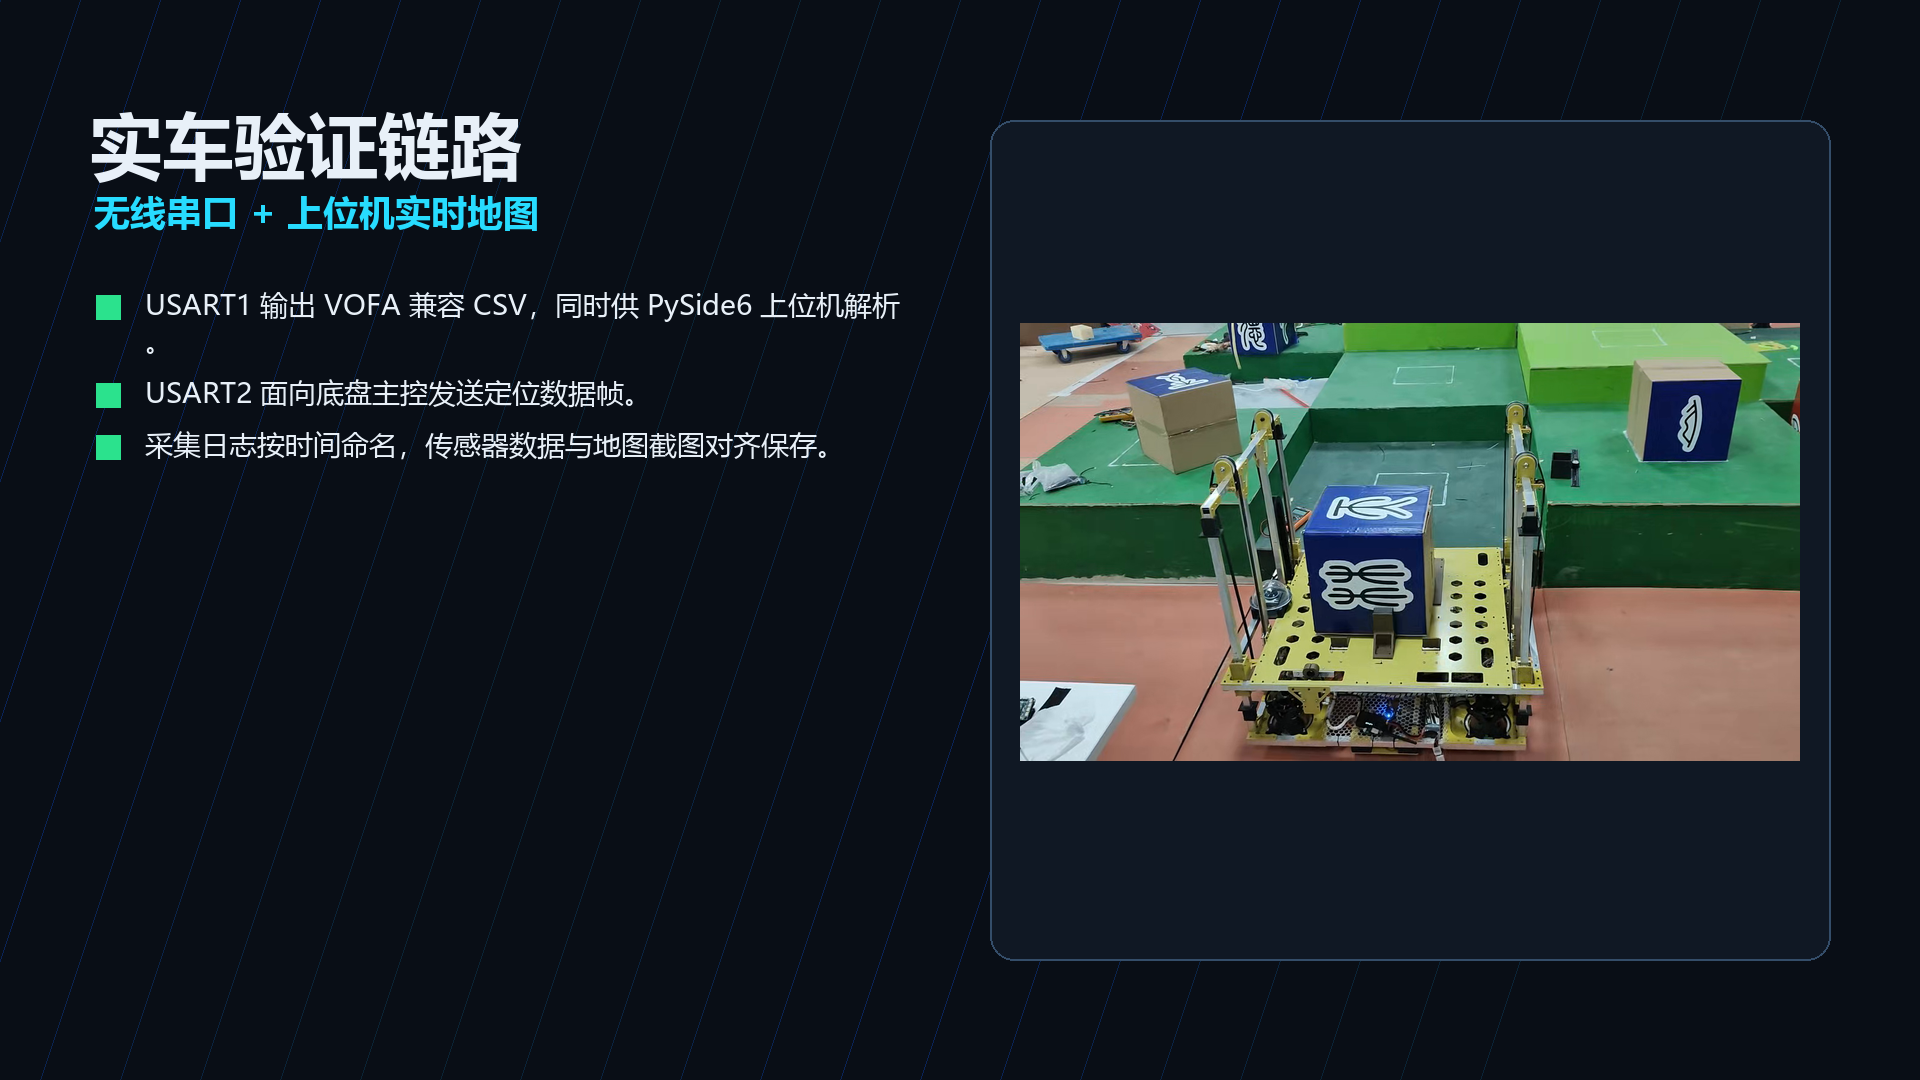
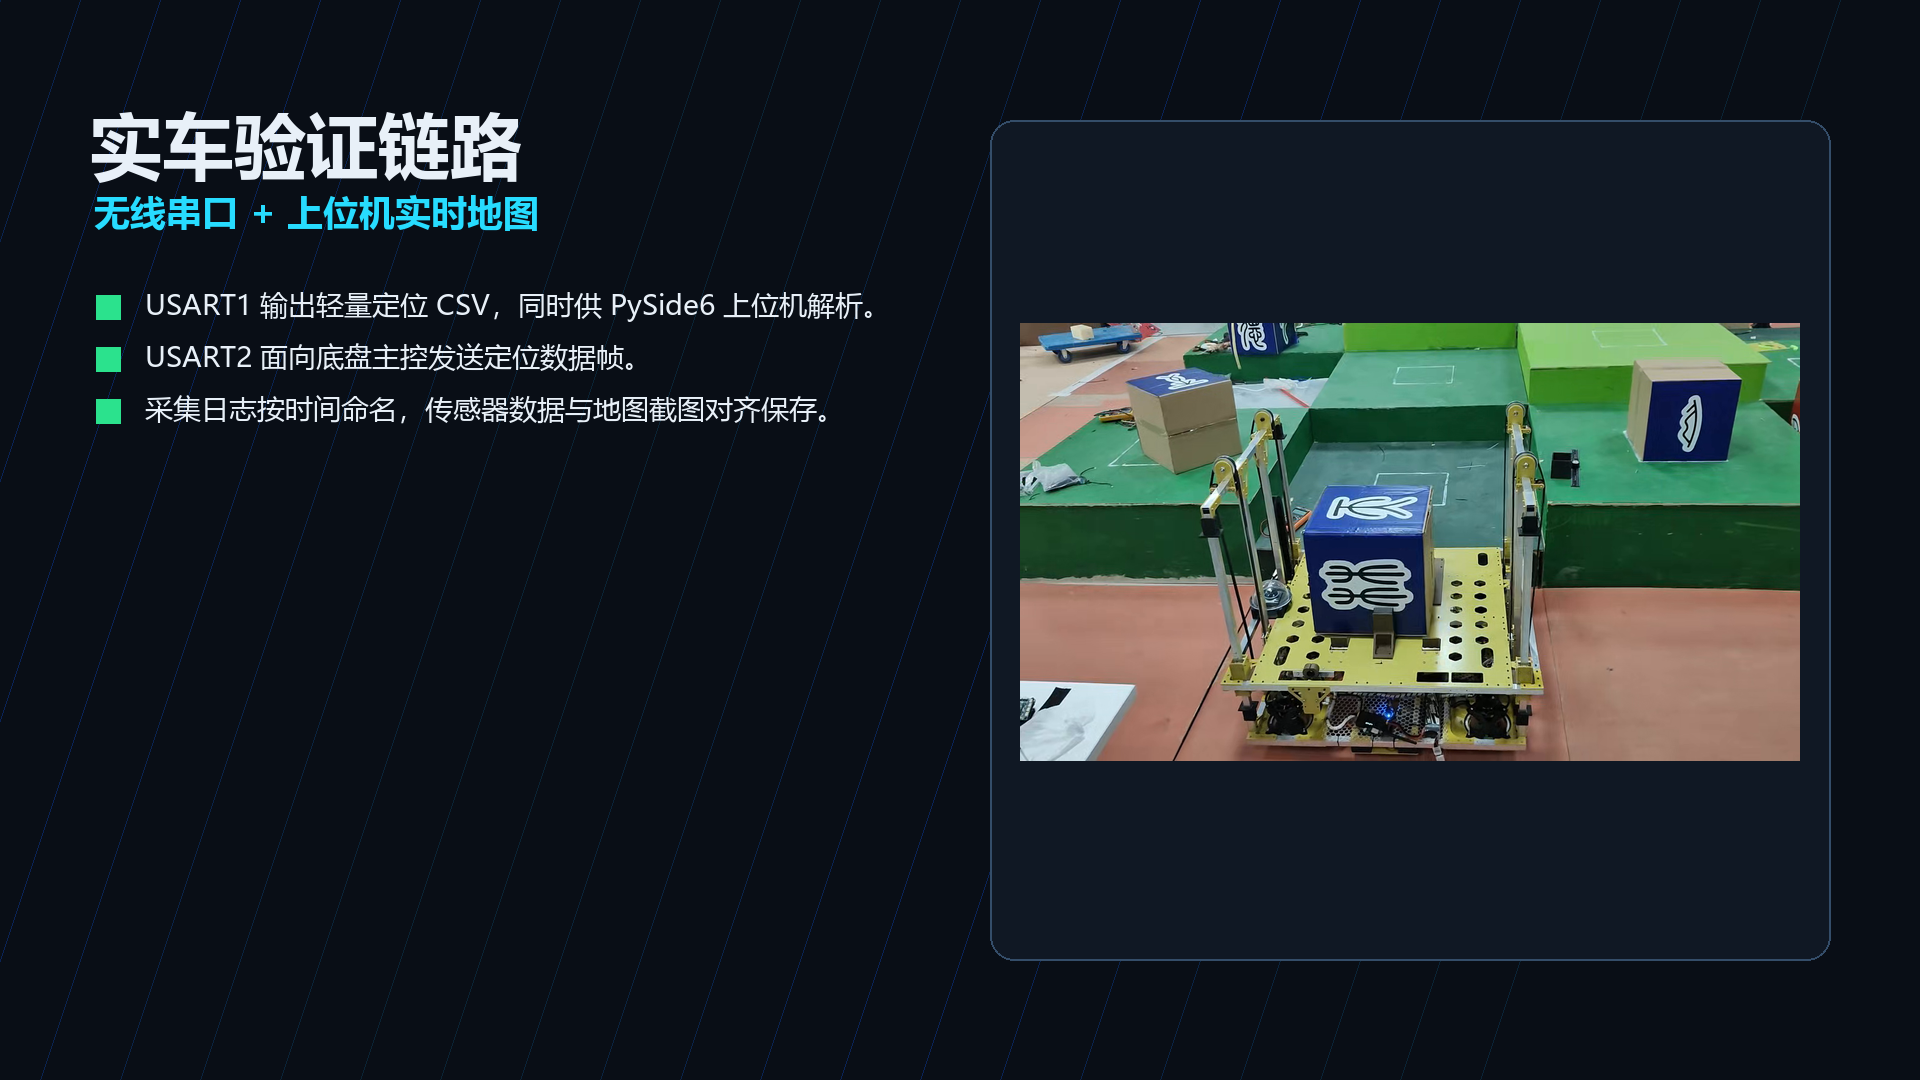
Polish promotion poster and media

Changed region(s): [[0.0312, 0.275, 0.4688, 0.4278]]

diff --git a/docs/promotion/index.html b/docs/promotion/index.html
@@ -63,10 +63,23 @@
       padding: 16px;
       box-shadow: 0 18px 60px rgba(0, 0, 0, 0.32);
     }
-    .video-card h2 {
+    .video-title {
+      display: flex;
+      align-items: baseline;
+      gap: 10px;
       margin: 0 0 10px;
-      font-size: 24px;
+    }
+    .video-title .zh {
+      font-size: 28px;
+      font-weight: 800;
       letter-spacing: 0;
+    }
+    .video-title .en {
+      color: var(--muted);
+      font-size: 15px;
+      font-weight: 700;
+      letter-spacing: 0;
+      text-transform: uppercase;
     }
     .video-card p {
       margin: 0 0 14px;
@@ -79,41 +92,6 @@
       border-radius: 12px;
       border: 1px solid rgba(149, 167, 187, 0.25);
       background: #050b12;
-    }
-    .links {
-      display: flex;
-      flex-wrap: wrap;
-      gap: 12px;
-      margin-top: 22px;
-      justify-content: center;
-    }
-    .button {
-      display: inline-flex;
-      align-items: center;
-      justify-content: center;
-      min-height: 40px;
-      border-radius: 10px;
-      padding: 0 15px;
-      text-decoration: none;
-      color: #06101a;
-      background: var(--cyan);
-      font-weight: 700;
-    }
-    .button.secondary {
-      color: var(--text);
-      background: transparent;
-      border: 1px solid var(--line);
-    }
-    .note {
-      margin: 18px auto 0;
-      max-width: 820px;
-      text-align: center;
-      color: var(--muted);
-    }
-    .footer {
-      margin-top: 32px;
-      color: var(--muted);
-      text-align: center;
     }
     @media (max-width: 820px) {
       .videos {
@@ -130,30 +108,26 @@
 
     <section class="videos" aria-label="演示视频">
       <article class="video-card">
-        <h2>仿真视频</h2>
-        <p>上位机地图回放、DT35 raycast、轨迹和传感器状态演示。</p>
-        <video controls muted playsinline poster="r1-locaterv2-field-model-overview.png">
-          <source src="r1-locaterv2-sim-preview.mp4" type="video/mp4">
-        </video>
-      </article>
-      <article class="video-card">
-        <h2>实车视频</h2>
+        <h2 class="video-title">
+          <span class="zh">A. 实车视频</span>
+          <span class="en">Real Car Video</span>
+        </h2>
         <p>R1 实车链路、定位板、场地结构和传感器联调现场。</p>
         <video controls muted playsinline poster="r1-locaterv2-real-car-frame.png">
           <source src="r1-locaterv2-real-car-h264.mp4" type="video/mp4">
         </video>
       </article>
+      <article class="video-card">
+        <h2 class="video-title">
+          <span class="zh">B. 仿真训练视频</span>
+          <span class="en">Simulation Training Video</span>
+        </h2>
+        <p>上位机地图回放、DT35 raycast、轨迹和传感器状态演示。</p>
+        <video controls muted playsinline poster="r1-locaterv2-field-model-overview.png">
+          <source src="r1-locaterv2-sim-preview.mp4" type="video/mp4">
+        </video>
+      </article>
     </section>
-
-    <p class="note">完整 1 分钟串联演示可播放 <a href="r1-locaterv2-demo.mp4">r1-locaterv2-demo.mp4</a>；README 中同时提供 GIF 预览，避免部分平台屏蔽 video 标签。</p>
-
-    <nav class="links" aria-label="相关链接">
-      <a class="button" href="r1-locaterv2-demo.mp4">完整演示视频</a>
-      <a class="button secondary" href="r1-locaterv2-demo-teaser.gif">GIF 预览</a>
-      <a class="button secondary" href="../../README.md">返回 README</a>
-    </nav>
-
-    <p class="footer">R1_LocaterV2 · STM32G4 多传感器定位调试闭环</p>
   </main>
 </body>
 </html>

diff --git a/docs/promotion/build_promo_assets.py b/docs/promotion/build_promo_assets.py
@@ -16,6 +16,7 @@ ASSETS_DIR = ROOT / "locater_map" / "assets"
 SIM_LOG_DIR = ROOT / "locater_map" / "logs" / "RL_data" / "20260623_coord_fixed_four_stages" / "ideal_log" / "png"
 
 W, H = 1920, 1080
+POSTER_W, POSTER_H = 1920, 1440
 BG = (9, 14, 22)
 PANEL = (16, 24, 36)
 PANEL_2 = (22, 35, 51)
@@ -134,12 +135,12 @@ def draw_badge(draw: ImageDraw.ImageDraw, xy: tuple[int, int], text: str, color)
     draw.text((x + pad_x, y + pad_y - 2), text, font=F_SMALL, fill=(5, 9, 15))
 
 
-def base_canvas() -> tuple[Image.Image, ImageDraw.ImageDraw]:
-    canvas = Image.new("RGB", (W, H), BG)
+def base_canvas(width: int = W, height: int = H) -> tuple[Image.Image, ImageDraw.ImageDraw]:
+    canvas = Image.new("RGB", (width, height), BG)
     draw = ImageDraw.Draw(canvas)
-    for i in range(0, W, 80):
+    for i in range(0, width, 80):
         alpha = int(14 + 18 * math.sin(i / 160))
-        draw.line((i, 0, i - 360, H), fill=(10, 35, 55 + alpha), width=1)
+        draw.line((i, 0, i - 360, height), fill=(10, 35, 55 + alpha), width=1)
     return canvas, draw
 
 
@@ -147,10 +148,6 @@ def make_poster() -> Path:
     out = PROMO_DIR / "r1-locaterv2-poster.png"
     field = ASSETS_DIR / "field_prior_map_clean_labeled_1215x1210cm.png"
     start_map = make_start_map_composite() if field.exists() else None
-    real_frame = PROMO_DIR / "r1-locaterv2-real-car-frame.png"
-    ui = PROMO_DIR / "r1-locaterv2-ui-demo.png"
-    overlay = ROOT / "locater_map" / "logs" / "RL_data" / "20260623_coord_fixed_four_stages" / "ideal_log" / "png" / "overview.png"
-
     def paste_media(img_path: Path, box: tuple[int, int, int, int], cover: bool = True, crop: tuple[int, int, int, int] | None = None) -> None:
         if not img_path.exists():
             return
@@ -163,59 +160,38 @@ def make_poster() -> Path:
         py = y1 + (y2 - y1 - fitted.height) // 2
         canvas.paste(fitted, (px, py))
 
-    def draw_panel(box: tuple[int, int, int, int], title: str, accent=CYAN) -> tuple[int, int, int, int]:
-        x1, y1, x2, y2 = box
-        round_rect(draw, box, 22, PANEL, outline=(45, 66, 91), width=2)
-        draw.rectangle((x1 + 18, y1 + 18, x1 + 88, y1 + 24), fill=accent)
-        draw.text((x1 + 18, y2 - 46), title, font=F_SMALL, fill=TEXT)
-        return (x1 + 18, y1 + 34, x2 - 18, y2 - 62)
-
-    canvas, draw = base_canvas()
-    top_cards = [(75, 55, 575, 330), (710, 55, 1210, 330), (1345, 55, 1845, 330)]
-    start_box = draw_panel(top_cards[0], "红方启动区局部零点", GREEN)
-    real_box = draw_panel(top_cards[1], "实车链路", YELLOW)
-    model_box = draw_panel(top_cards[2], "DT35 墙体模型", CYAN)
-    if start_map and start_map.exists():
-        paste_media(start_map, start_box, cover=True, crop=(0, 0, 520, 370))
-    elif field.exists():
-        paste_media(field, start_box, cover=True, crop=(0, 0, 520, 370))
-    paste_media(real_frame, real_box, cover=True)
-    if overlay.exists():
-        paste_media(overlay, model_box, cover=True, crop=(0, 120, 2500, 1060))
-    elif ui.exists():
-        paste_media(ui, model_box, cover=True)
-
-    round_rect(draw, (75, 380, 1845, 1010), 28, PANEL_2, outline=(45, 66, 91), width=2)
-    draw.text((130, 445), "R1_LocaterV2", font=F_TITLE, fill=TEXT)
-    draw.text((134, 532), "STM32G4 多传感器定位板", font=F_SUBTITLE, fill=CYAN)
+    canvas, draw = base_canvas(POSTER_W, POSTER_H)
+    round_rect(draw, (70, 70, 1850, 1370), 32, PANEL_2, outline=(45, 66, 91), width=2)
+    draw.text((130, 135), "R1_LocaterV2", font=F_TITLE, fill=TEXT)
+    draw.text((135, 220), "STM32G4 多传感器定位板", font=F_SUBTITLE, fill=CYAN)
     draw_wrapped(
         draw,
         "H30 yaw、双正交编码轮、Lidar 启动局部位姿、双 DT35 测距与 PySide6 实时地图上位机对齐到同一套定位调试闭环。",
-        (134, 598),
+        (135, 300),
         650,
         fnt=F_BODY,
         fill=TEXT,
     )
-    draw_badge(draw, (134, 720), "real2sim", GREEN)
-    draw_badge(draw, (274, 720), "UART/VOFA", CYAN)
-    draw_badge(draw, (438, 720), "DT35 raycast", YELLOW)
-    y = 800
+    draw_badge(draw, (135, 435), "里程计", GREEN)
+    draw_badge(draw, (270, 435), "多传感器融合", CYAN)
+    draw_badge(draw, (520, 435), "RLHF 数据闭环", YELLOW)
+    y = 540
     bullets = [
-        "CSV/二进制协议同时服务上位机与底盘主控",
-        "地图坐标、底盘贴图、DT35 墙体模型按 cm 精确建模",
-        "支持日志采集、回放、截图序列和离线融合评估",
+        "双正交编码轮里程计与 H30 yaw 提供高频局部位姿约束",
+        "Lidar、DT35、里程计多源观测在同一地图坐标系下融合校验",
+        "采集、回放、仿真和人工反馈形成 real2sim / RLHF 迭代闭环",
     ]
     for item in bullets:
-        draw.ellipse((142, y + 8, 154, y + 20), fill=GREEN)
-        y = draw_wrapped(draw, item, (174, y), 660, fnt=F_BODY, fill=TEXT) + 6
+        draw.ellipse((145, y + 8, 157, y + 20), fill=GREEN)
+        y = draw_wrapped(draw, item, (177, y), 660, fnt=F_BODY, fill=TEXT) + 8
 
-    media_frame = (900, 430, 1790, 950)
+    media_frame = (880, 145, 1788, 1295)
     round_rect(draw, media_frame, 22, (8, 13, 20), outline=(55, 80, 110), width=1)
     if start_map and start_map.exists():
-        paste_media(start_map, (925, 455, 1765, 925), cover=False)
+        paste_media(start_map, (915, 180, 1753, 1235), cover=False)
     elif field.exists():
-        paste_media(field, (925, 455, 1765, 925), cover=False)
-    draw.text((925, 900), "起点 x=0, y=0, yaw=0 / +X 正东 / +Y 正北", font=F_SMALL, fill=YELLOW)
+        paste_media(field, (915, 180, 1753, 1235), cover=False)
+    draw.text((915, 1245), "起点 x=0, y=0, yaw=0 / +X 正东 / +Y 正北", font=F_SMALL, fill=YELLOW)
     out.parent.mkdir(parents=True, exist_ok=True)
     canvas.save(out, quality=95)
     return out
@@ -267,16 +243,16 @@ def encode_still(image: Path, duration: float, out: Path) -> None:
             "-i",
             str(image),
             "-vf",
-            "scale=1920:1080:force_original_aspect_ratio=decrease,pad=1920:1080:(ow-iw)/2:(oh-ih)/2,format=yuv420p",
+            "scale=1280:720:force_original_aspect_ratio=decrease,pad=1280:720:(ow-iw)/2:(oh-ih)/2,format=yuv420p",
             "-r",
-            "30",
+            "24",
             "-an",
             "-c:v",
             "libx264",
             "-preset",
             "medium",
             "-crf",
-            "20",
+            "29",
             "-movflags",
             "+faststart",
             str(out),
@@ -295,16 +271,16 @@ def encode_real_clip(src: Path, out: Path) -> None:
             "-t",
             f"{duration:.2f}",
             "-vf",
-            "scale=1920:1080:force_original_aspect_ratio=decrease,pad=1920:1080:(ow-iw)/2:(oh-ih)/2,format=yuv420p",
+            "scale=1280:720:force_original_aspect_ratio=decrease,pad=1280:720:(ow-iw)/2:(oh-ih)/2,format=yuv420p",
             "-r",
-            "30",
+            "24",
             "-an",
             "-c:v",
             "libx264",
             "-preset",
             "medium",
             "-crf",
-            "21",
+            "29",
             "-movflags",
             "+faststart",
             str(out),
@@ -334,16 +310,16 @@ def encode_sim_clip(out: Path) -> Path | None:
             "-i",
             str(tmp_frames / "%04d.png"),
             "-vf",
-            "scale=1920:1080:force_original_aspect_ratio=decrease,pad=1920:1080:(ow-iw)/2:(oh-ih)/2,format=yuv420p",
+            "scale=1280:720:force_original_aspect_ratio=decrease,pad=1280:720:(ow-iw)/2:(oh-ih)/2,format=yuv420p",
             "-r",
-            "30",
+            "24",
             "-an",
             "-c:v",
             "libx264",
             "-preset",
             "medium",
             "-crf",
-            "20",
+            "27",
             "-movflags",
             "+faststart",
             str(out),
@@ -371,11 +347,12 @@ def convert_real_video() -> tuple[Path, Path]:
             "-preset",
             "medium",
             "-crf",
-            "21",
-            "-c:a",
-            "aac",
-            "-b:a",
-            "128k",
+            "28",
+            "-vf",
+            "scale=960:540:force_original_aspect_ratio=decrease,pad=960:540:(ow-iw)/2:(oh-ih)/2,format=yuv420p",
+            "-r",
+            "24",
+            "-an",
             "-movflags",
             "+faststart",
             str(h264),
@@ -409,7 +386,7 @@ def make_demo_video() -> tuple[Path, Path]:
         "实车验证链路",
         "无线串口 + 上位机实时地图",
         [
-            "USART1 输出 VOFA 兼容 CSV，同时供 PySide6 上位机解析。",
+            "USART1 输出轻量定位 CSV，同时供 PySide6 上位机解析。",
             "USART2 面向底盘主控发送定位数据帧。",
             "采集日志按时间命名，传感器数据与地图截图对齐保存。",
         ],
@@ -459,7 +436,7 @@ def make_demo_video() -> tuple[Path, Path]:
             "-i",
             str(demo),
             "-vf",
-            "fps=12,scale=960:-1:flags=lanczos",
+            "fps=10,scale=720:-1:flags=lanczos",
             str(gif),
         ]
     )

diff --git a/README.md b/README.md
@@ -4,22 +4,14 @@ R1_LocaterV2 是基于 STM32G4 的 R1 机器人定位板工程。它把 H30 MINI
 
 <p align="center">
   <a href="docs/promotion/r1-locaterv2-demo.mp4">
-    <img src="docs/promotion/r1-locaterv2-poster.png" alt="R1_LocaterV2 demo poster" width="920">
+    <img src="docs/promotion/r1-locaterv2-poster.png" alt="R1_LocaterV2 demo poster" width="1100">
   </a>
-</p>
-
-<p align="center">
-  <video controls muted playsinline width="920" poster="docs/promotion/r1-locaterv2-poster.png">
-    <source src="https://raw.githubusercontent.com/lwbscu/R1_LocaterV2/main/docs/promotion/r1-locaterv2-demo.mp4" type="video/mp4">
-  </video>
-</p>
-
-<p align="center">
-  <img src="docs/promotion/r1-locaterv2-demo-teaser.gif" alt="R1_LocaterV2 demo GIF preview" width="920">
 </p>
 
 > 宣传页：[`docs/promotion/index.html`](docs/promotion/index.html)  
 > 演示视频 MP4：[`docs/promotion/r1-locaterv2-demo.mp4`](docs/promotion/r1-locaterv2-demo.mp4)  
+> A. 实车视频 / Real Car Video：[`docs/promotion/r1-locaterv2-real-car-h264.mp4`](docs/promotion/r1-locaterv2-real-car-h264.mp4)
+> B. 仿真训练视频 / Simulation Training Video：[`docs/promotion/r1-locaterv2-sim-preview.mp4`](docs/promotion/r1-locaterv2-sim-preview.mp4)
 > GIF 预览：[`docs/promotion/r1-locaterv2-demo-teaser.gif`](docs/promotion/r1-locaterv2-demo-teaser.gif)  
 > 实车原始视频：[`locater_map/assets/实车.mp4`](locater_map/assets/实车.mp4)
 
@@ -44,7 +36,7 @@ R1_LocaterV2 是基于 STM32G4 的 R1 机器人定位板工程。它把 H30 MINI
 
 | 模块 | 外设 | 作用 |
 | --- | --- | --- |
-| VOFA / 上位机 | USART1 `115200` | 输出 CSV 调试帧，支持无线串口实时地图 |
+| 调试上位机 | USART1 `115200` | 输出轻量定位 CSV，支持无线串口实时地图 |
 | 底盘主控 | USART2 `1152000` | 输出 `PG + 11 float + checksum` 二进制帧 |
 | Lidar | USART3 `115200` | 接收雷达定位数据 |
 | H30 MINI | UART4 `460800` | 接收 yaw / 姿态数据 |
@@ -55,7 +47,7 @@ R1_LocaterV2 是基于 STM32G4 的 R1 机器人定位板工程。它把 H30 MINI
 
 ### USART1: `r1_csv_v3`
 
-默认输出 12 列纯数字 CSV，兼容 VOFA 和上位机：
+默认输出 12 列纯数字 CSV，供上位机、日志采集和回放工具解析：
 
 ```text
 pos_x,pos_y,pos_yaw,lidar_x,lidar_y,lidar_yaw,encoder_x,encoder_y,h30_yaw,dt35_1_mm,dt35_2_mm,status_mask

diff --git a/docs/promotion/juejin-draft.md b/docs/promotion/juejin-draft.md
@@ -31,7 +31,7 @@ R1_LocaterV2 是我们为 R1 机器人重新做的一版定位板工程。硬件
 
 | 接口 | 波特率 | 用途 |
 | --- | ---: | --- |
-| USART1 | 115200 | VOFA / PySide6 上位机 CSV |
+| USART1 | 115200 | 轻量定位 CSV / PySide6 实时地图 |
 | USART2 | 1152000 | 发送给底盘主控 |
 | USART3 | 115200 | 接收 Lidar 数据 |
 | UART4 | 460800 | 接收 H30 MINI IMU |
@@ -43,7 +43,7 @@ USART1 默认输出 12 列 `r1_csv_v3`：
 pos_x,pos_y,pos_yaw,lidar_x,lidar_y,lidar_yaw,encoder_x,encoder_y,h30_yaw,dt35_1_mm,dt35_2_mm,status_mask
 ```
 
-它兼容 VOFA，也能被上位机直接解析。USART2 给底盘主控输出 `PG + 11 float + checksum`，包含最终定位、Lidar、编码轮、H30 yaw 和两个 DT35 距离。
+它能被上位机直接解析，也便于记录和回放定位数据。USART2 给底盘主控输出 `PG + 11 float + checksum`，包含最终定位、Lidar、编码轮、H30 yaw 和两个 DT35 距离。
 
 ## 坐标系：不要把场地中心误当成机器人零点
 

diff --git a/docs/promotion/zhihu-draft.md b/docs/promotion/zhihu-draft.md
@@ -65,7 +65,7 @@ PC 上位机使用 PySide6 写，不用 ROS、不用 Web，也不依赖 Foxglove
 当前工程已经跑通：
 
 - STM32G4 固件。
-- USART1 上位机/VOFA 调试输出。
+- USART1 轻量定位 CSV 调试输出。
 - USART2 底盘主控定位帧。
 - H30 / 编码轮 / Lidar / DT35 数据链路。
 - PySide6 实时地图、采集、回放、仿真分析。